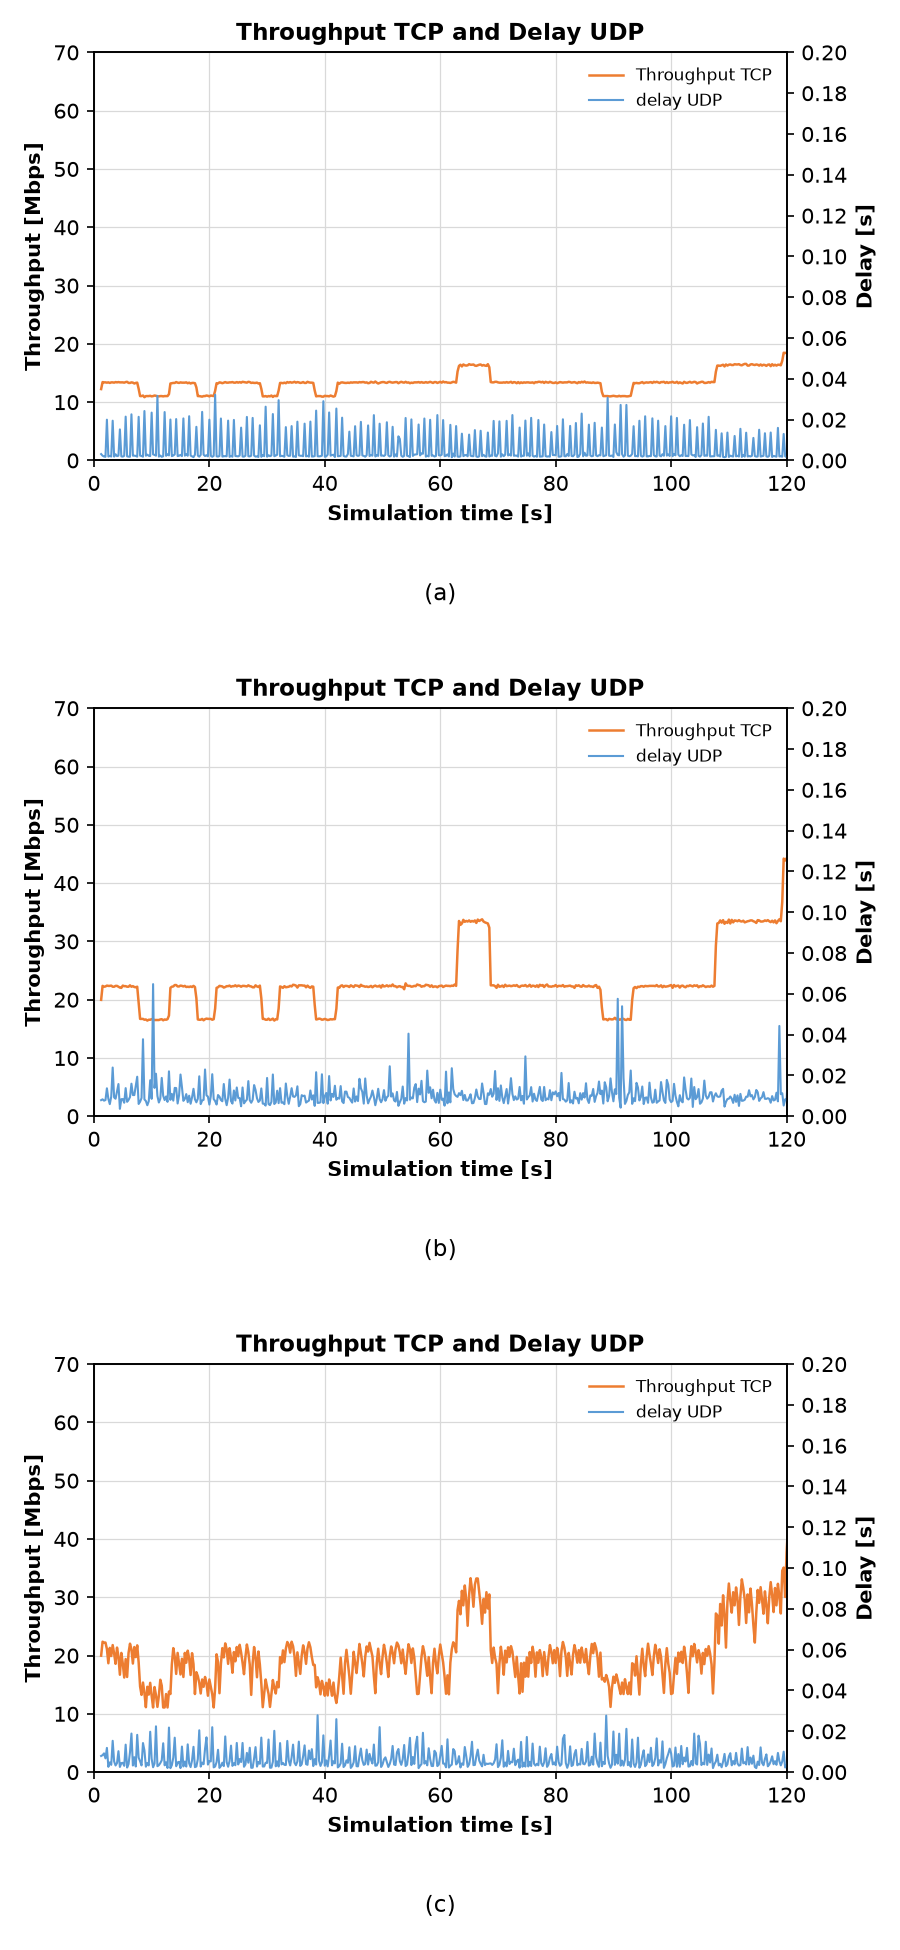
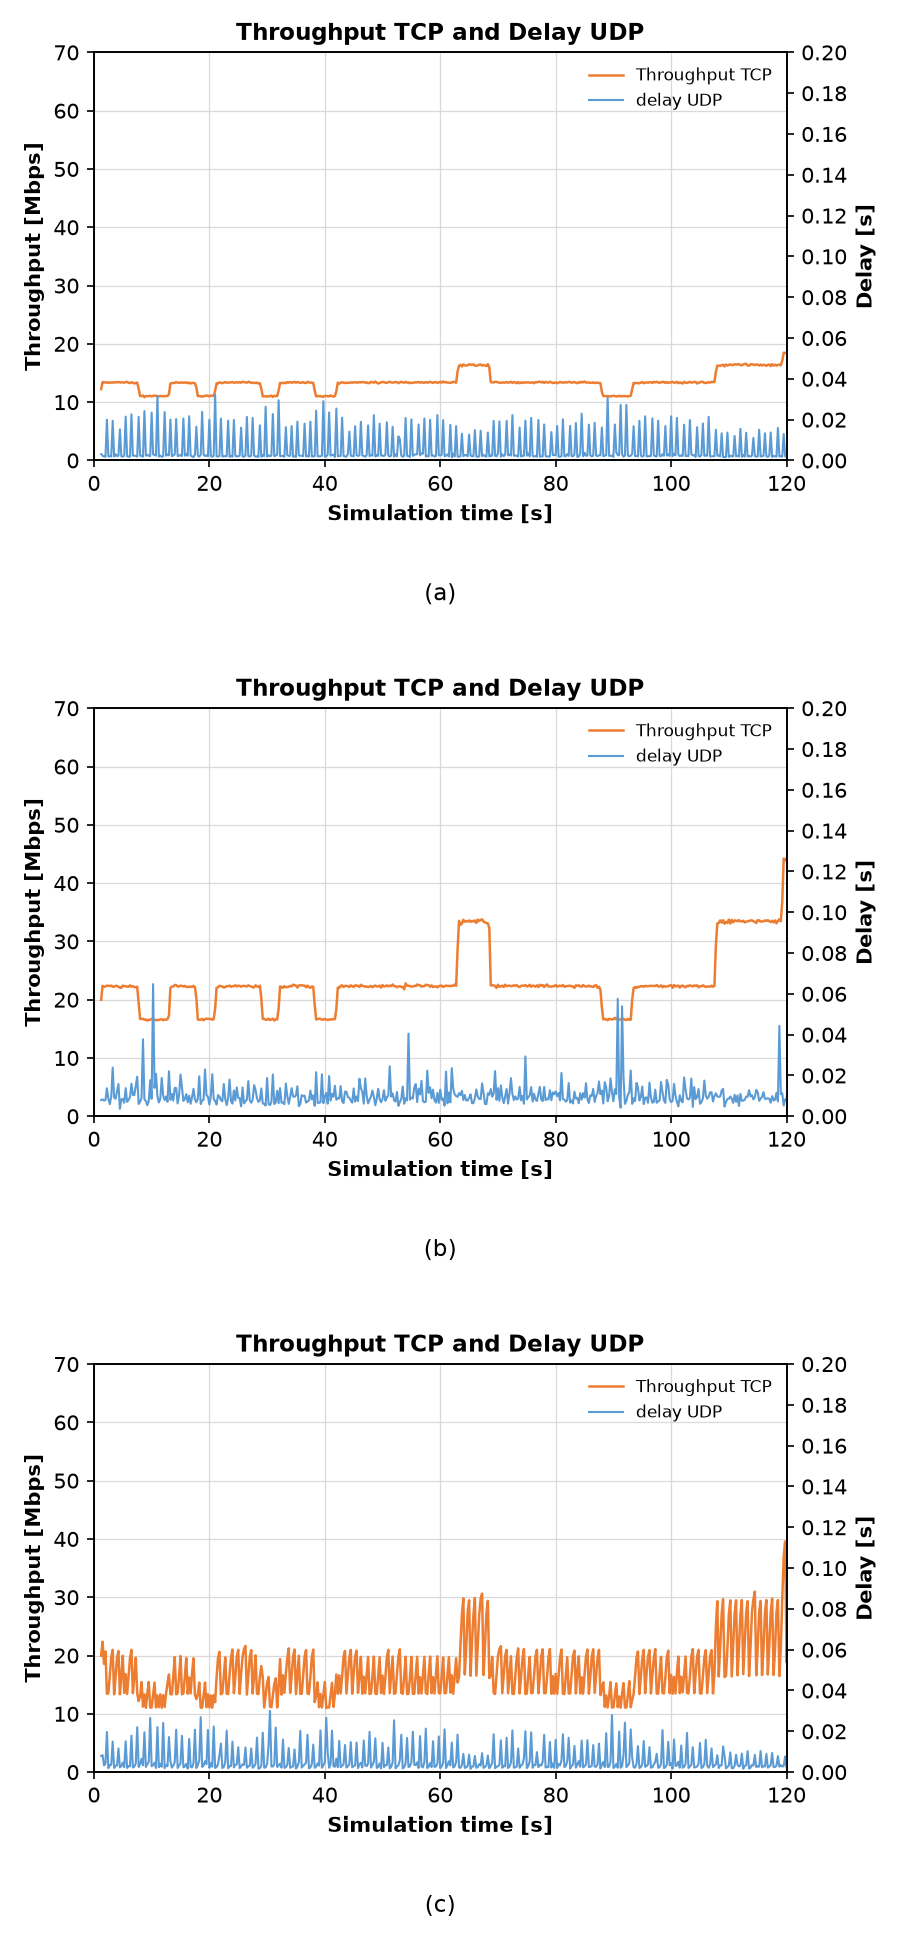
add reproduce report and split fig 2 into 3 part

Changed region(s): [[0.0933, 0.8, 0.8711, 0.9231]]

diff --git a/plot_fig2.py b/plot_fig2.py
@@ -41,7 +41,7 @@ def read_kpis(name):
     return df
 
 
-def plot_panel(ax, df, label):
+def plot_panel(ax, df, label, show_label=True):
     voip = df[df["app"] == "VoIP_upload"]
     tcp = df[df["app"] == "TCP_download"].groupby("t")["thr"].sum() / 1e6
 
@@ -76,8 +76,9 @@ def plot_panel(ax, df, label):
     h2, l2 = ax2.get_legend_handles_labels()
     ax2.legend(h1 + h2, l1 + l2, loc="upper right", fontsize=8, frameon=False)
 
-    # Panel label below the axes: (a), (b), (c)
-    ax.text(0.5, -0.3, label, transform=ax.transAxes, ha="center", va="top", fontsize=11)
+    # Panel label below the axes: (a), (b), (c) -- only in the combined figure
+    if show_label:
+        ax.text(0.5, -0.3, label, transform=ax.transAxes, ha="center", va="top", fontsize=11)
 
     shown_voip = voip[voip["t"] <= X_MAX_S]
     print(f"{label} first {X_MAX_S} s: mean TCP {tcp[tcp.index <= X_MAX_S].mean():.1f} Mbps, "
@@ -115,6 +116,18 @@ def main():
     out = OUT_DIR / "fig2.png"
     fig.savefig(out, dpi=150)
     print(f"saved {out}")
+    plt.close(fig)
+
+    # Also one file per panel: fig2a.png, fig2b.png, fig2c.png
+    for name, label in zip(RUNS, ["(a)", "(b)", "(c)"]):
+        fig, ax = plt.subplots(figsize=(6, 4))
+        plot_panel(ax, read_kpis(name), label, show_label=False)
+        fig.tight_layout()
+        out = OUT_DIR / f"{name}.png"
+        fig.savefig(out, dpi=150)
+        print(f"saved {out}")
+        plt.close(fig)
+
     plot_ampdu()
 
 

diff --git a/reproduce_report.md b/reproduce_report.md
@@ -1,0 +1,254 @@
+# Finding the Sweet Spot for Frame Aggregation：移植到 ns-3.48 與重現實驗報告
+
+## 1. 背景
+
+本報告重現的論文是：
+
+> J. Saldana, O. Topal, J. Ruiz-Mas, J. Fernandez-Navajas, "Finding the Sweet Spot for Frame Aggregation in 802.11 WLANs," *IEEE Communications Letters*, vol. 25, no. 4, pp. 1368–1372, April 2021.
+
+論文探討 802.11 的 A-MPDU 聚合在 **TCP 吞吐量** 與 **VoIP 延遲** 之間的取捨，並提出一個動態演算法：AP 每 0.25 秒量測一次底下 VoIP 使用者的延遲，超過延遲預算（latency budget）就調降 A-MPDU 上限，低於預算就調升。
+
+作者公開的程式（`cc/*.cc`、`sh/*.sh`）是在 **ns-3.30.1 + waf** 上撰寫的。我們的環境是 **ns-3.48 + CMake/`./ns3`**，兩者之間 Wi-Fi 模組的 API 改動很大，因此必須先移植才能執行。
+
+| 項目 | 內容 |
+|---|---|
+| 原始程式 | v199（論文主要版本）、v199b、v199b11–b16（演算法係數不同）、v215 |
+| 移植範圍 | 全部 9 個 `.cc`、21 個 `sh/*.sh` |
+| 執行環境 | ns-3.48、Apple M5（10 核心）、macOS、build profile：optimized（release） |
+| 程式碼位置 | 分支 `ns-3.48-port`，git@github.com:soraimahiro/wifi-sweet-spot-ns3.git |
+
+## 2. 移植到 ns-3.48 的修改
+
+### 2.1 建置方式
+
+- 新增 `CMakeLists.txt`：把 `cc/` 底下每個 `.cc` 各編成一個獨立的執行檔。原本 `cc/` 的檔案完全不會被 ns-3 的 scratch 機制編譯；就算被編譯，9 個 `main()` 也會互相衝突。
+- `sh/*.sh`：`./waf -d optimized --run` 改成 `./ns3 run`，並在開頭 `cd` 到 ns-3 根目錄，讓腳本可以從任何目錄執行。
+
+### 2.2 API 變更（不改就編譯失敗或執行時中止）
+
+| ns-3.30.1 寫法 | ns-3.48 改法 |
+|---|---|
+| `YansWifiPhyHelper::Default()`、`SpectrumWifiPhyHelper::Default()` | 直接用建構式 |
+| `WIFI_PHY_STANDARD_80211n_5GHZ` 等列舉 | `WIFI_STANDARD_80211n` 等；頻段改由頻道設定決定 |
+| PHY 屬性 `ChannelNumber`、`ChannelWidth`（已變成唯讀）、`SetChannelNumber()`（已移除） | 改用 `ChannelSettings` 屬性，例如 `"{36, 20, BAND_5GHZ, 0}"` |
+| PHY 屬性 `ShortGuardEnabled` | 移除（預設就是關閉） |
+| `WifiPhy::EnergyDetectionThreshold` | 改名為 `WifiPhy::RxSensitivity` |
+| `TcpWestwood` + `ProtocolType=WESTWOODPLUS` | `TcpWestwoodPlus` |
+| `InetSocketAddress::SetTos()`（已移除） | 改設定 client 應用程式的 `Tos` 屬性 |
+| `UdpTraceClientHelper(socket位址, port, "")` | `UdpTraceClientHelper(socket位址, "")`；舊寫法在 3.48 會直接 `NS_FATAL_ERROR` |
+| `Ptr == 0`、`isnan()` | `Ptr == nullptr`、`std::isnan()` |
+| 把變長陣列（VLA）傳給 `Simulator::Schedule` | 改傳 `static_cast<FlowStatistics*>(x)` |
+
+### 2.3 靜默失效的問題（能編譯、能跑完，但結果是錯的）
+
+這類問題最危險，因為程式不會報錯。以下三個都是在實際執行、檢查輸出之後才發現的：
+
+1. **`RegularWifiMac` 路徑失效 → A-MPDU 從來沒被修改**
+   原程式用 `Config::Set(".../Mac/$ns3::RegularWifiMac/BE_MaxAmpduSize", ...)` 修改 A-MPDU。`RegularWifiMac` 在 ns-3.36 之後已經不存在，這個路徑比對不到任何物件，`Config::Set` 卻**不會報錯，只是什麼都不做**。
+   修正：拿掉 `$ns3::RegularWifiMac/`，並改用 `Config::SetFailSafe`，找不到物件時直接中止，避免再次靜默失效。
+
+2. **MAC 位址比對失敗 → 演算法以為 AP 底下沒有 VoIP 使用者**
+   AP 的 MAC 是用 `Address` 的格式存成字串（`類型-長度-MAC`），STA 端比對時則是手寫前綴 `"02-06-" << mac`。在 3.30，MAC 位址的類型編號剛好是 02；但 3.48 的類型註冊順序不同，變成 01，所以兩邊永遠比對不到。
+   結果是演算法讀到的 VoIP 最高延遲永遠是 0，A-MPDU 永遠停在 65535。修正後改用 `Address(mac)` 產生字串，和 AP 端的格式一定一致。這個問題也會影響 Disable algorithm 和換手時查詢頻道的邏輯。
+
+3. **未初始化的變數**
+   `uint32_t number_of_STAs_per_row;` 宣告時沒有給初始值，沒有在命令列設定時，它的值就是記憶體殘留的隨機內容。smoke test 時剛好是 0，但跑 `test431.sh` 時變成非 0，參數檢查就拒絕執行。這是原作者程式本來就有的 bug，在 3.30 只是碰巧沒發作。修正為 `= 0`。
+
+### 2.4 驗證
+
+用 `run.sh`（Method #1 的參數，4 個 AP、TCP 和 VoIP 各 2 個使用者、模擬 10 秒）確認演算法確實在運作。有 VoIP 使用者的 AP #3，A-MPDU 會隨延遲調整：
+
+| 時間 (s) | VoIP 最高延遲 | A-MPDU (bytes) |
+|---|---|---|
+| 1.25 | 12 ms（超過 4 ms 預算） | 65535 → 35535 |
+| 1.50 | 10 ms | → 5535 |
+| 1.75 | 4 ms | → 8535（調升） |
+| 2.00 之後 | 在預算上下來回 | 在 1600 到 7600 之間來回 |
+
+修正前後的同一場景比較：
+
+| | VoIP 平均延遲 | TCP 下載總吞吐量 |
+|---|---|---|
+| 修正前（A-MPDU 實際上一直開到最大） | 12.7 ms | 49.8 Mbps |
+| 修正後（動態演算法有在運作） | 5.7 ms | 37.2 Mbps |
+
+方向和論文一致：犧牲一部分 TCP 吞吐量，換到 VoIP 延遲降低約一半，並貼近 4 ms 的預算。
+
+## 3. 實驗 A：Fig. 2（單一使用者的時間序列）
+
+### 3.1 設定
+
+依照 README，Fig. 2 由 `test451`、`test452`、`test453` 產生，取 seed 2。我們寫了 `fig2.sh`，用完全相同的參數只跑 seed 2，再由 `plot_fig2.py` 依照論文的樣式畫圖。
+
+| 共同設定 | |
+|---|---|
+| 拓樸 | 1 個 AP |
+| 使用者 | 1 個 TCP 下載使用者、1 個 VoIP 上傳使用者（隨機走動，速度 1 m/s） |
+| 標準 | 802.11ac、5 GHz、20 MHz、單串流、SpectrumWifiPhy、IdealWifiManager |
+| 模擬時間 | 180 秒（圖上顯示前 120 秒，和論文相同） |
+| 亂數 | `RngRun=2` |
+
+| 子圖 | 聚合設定 |
+|---|---|
+| (a) | 不聚合 |
+| (b) | 一直聚合，A-MPDU 上限 65535 bytes |
+| (c) | 動態演算法 Method #1（線性調降、線性調升，`methodAdjustAmpdu=0`，步長 3000 B），延遲預算 4 ms |
+
+三次 run 總共只需要約一兩分鐘。
+
+> **注意：(c) 的參數和作者公開的腳本不同。** 論文正文寫明 Fig. 2(c) 使用的是 **Method #1**（程式參數 `methodAdjustAmpdu=0`）。但 README 標示產生 Fig. 2(c) 的 `test453` 腳本設定的是 `methodAdjustAmpdu=3`，在程式裡對應的是幾何調整（×2 / ×0.618），也就是論文的 Method #2（test521–526 用的就是這個值）。作者公開的腳本和論文的圖可能不是同一個版本。我們以論文正文為準，(c) 使用 Method #1；照 test453 參數（Method #2）跑出的結果也一併列在 3.3 節供參考。
+
+### 3.2 結果
+
+![Fig. 2(a) 不聚合](fig2a.png)
+
+![Fig. 2(b) 一直聚合](fig2b.png)
+
+![Fig. 2(c) 動態演算法（Method #1）](fig2c.png)
+
+前 120 秒（和論文的顯示範圍相同）：
+
+| | TCP 平均吞吐量 | UDP 平均延遲 | UDP 最大延遲 |
+|---|---|---|---|
+| (a) 不聚合 | 13.4 Mbps | 6.1 ms | 32 ms |
+| (b) 一直聚合 | 23.1 Mbps | 10.7 ms | 65 ms |
+| (c) 動態演算法（Method #1） | 17.2 Mbps | 6.2 ms | 30 ms |
+
+全部 180 秒時，(b) 在 146 秒還有一次高達 1.02 s 的延遲。
+
+動態演算法下 AP 的 A-MPDU 大小變化（論文沒有這張圖）：
+
+![(c) 的 A-MPDU 大小](fig2c_ampdu.png)
+
+### 3.3 和論文的比較
+
+| | 論文 TCP 吞吐量 | 我們 TCP 吞吐量 | 論文 UDP 平均延遲 | 我們 UDP 平均延遲 |
+|---|---|---|---|---|
+| (a) 不聚合 | 16.6 Mbps | 13.4 Mbps | 4.7 ms | 6.1 ms |
+| (b) 一直聚合 | 34.5 Mbps | 23.1 Mbps | 10 ms | 10.7 ms |
+| (c) 動態演算法（Method #1） | 31.3 Mbps | 17.2 Mbps | 6.2 ms | 6.2 ms |
+
+論文的數字取自正文對 Fig. 2 的說明；我們的數字是前 120 秒的平均。
+
+### 3.4 結論
+
+- **重現了論文的主要結論**
+  - 一直聚合（b）的 TCP 吞吐量最高，但 UDP 延遲也被墊高到約 10 ms（論文 10 ms，我們 10.7 ms），並出現明顯的尖峰。
+  - 動態演算法（c）能把延遲壓回接近不聚合的水準（兩者都是 6.2 ms），吞吐量則介於 (a) 和 (b) 之間。
+- **差異一：TCP 吞吐量的絕對值偏低**，(b) 只有論文的 67%。
+  - 吞吐量幾乎完全取決於 TCP 使用者與 AP 的距離（從位置輸出檔算出的相關係數是 −0.90）。
+  - 論文的使用者在 t = 8 s 時非常靠近 AP，吞吐量達 60–65 Mbps；我們的使用者前 100 秒大多在 30 m 外，只有約 20 Mbps。
+  - 同樣使用 seed 2 卻走出不同路線，是因為 ns-3.30 到 3.48 之間各模組使用亂數的順序改變了，跨版本本來就無法逐點重現同一條軌跡。
+- **差異二：我們的 Method #1 比論文保守**
+  - 論文的 (c) 只比 (b) 少 9% 吞吐量；我們少了 26%，但延遲幾乎沒有比不聚合增加。
+  - 可能的原因：我們不聚合時就有週期性的延遲尖峰，平均 6.1 ms，已高於 4 ms 的預算。演算法遇到尖峰就調降 A-MPDU，使它有 35% 的時間停在下限 1600 bytes，整體表現因此更接近不聚合。
+- **作者的腳本和論文不一致**
+  - 作者公開的 test453 腳本使用的是 Method #2（`methodAdjustAmpdu=3`），論文正文寫的是 Method #1。
+  - 我們以論文正文為準；照 test453 參數跑出的 Method #2 結果（19.8 Mbps、6.7 ms）介於兩者之間。
+- **總結**：三種設定之間的相對關係和論文一致，數值上的差異主要來自移動路線與基準延遲的不同，而不是移植本身的問題。
+
+## 4. 實驗 B：Fig. 4–7（不同使用者數的比較）
+
+### 4.1 設定
+
+Fig. 4–7 比較 7 種聚合設定在不同使用者數下的表現，四張圖共用同一批模擬，只是畫不同的指標（VoIP 延遲、吞吐量等）。
+
+| 共同設定 | |
+|---|---|
+| 拓樸 | 16 個 AP 排成 4×4 方格，間距 50 m，使用 16 個頻道 |
+| 使用者 | N 個 TCP 下載使用者 + N 個 VoIP 上傳使用者，隨機走動、會換手 |
+| N | 2、4、…、20（10 種） |
+| 重複次數 | 每個 N 跑 5 個 seed 取平均 |
+| 模擬時間 | 60 秒 |
+
+| 腳本 | 設定 | run 數 |
+|---|---|---|
+| test411 | (1) 不聚合 | 50 |
+| test412 | (2) 一直聚合 | 50 |
+| test414 | (3) Disable algorithm | 50 |
+| test431 | (4) Method #1：線性調降、線性調升 | 50 |
+| test521 | (5) Method #2：幾何調降、幾何調升（v199b11） | 5 種 N × 15 個 seed = 75 |
+| test432 | (6) Method #3：降到最小、線性調升 | 50 |
+| test434 | (7) Method #4：線性調降、直接升到最大（v215） | 50 |
+| **合計** | | **375** |
+
+圖上的每一條線是一種設定，每一個點是一個 N，所以每個點背後都是 5 次（test521 為 15 次）獨立的模擬，沒辦法用一次模擬產生全部的圖。
+
+### 4.2 實測耗時
+
+我們先跑了 test431，跑到 N=14 時中止。從 log 的時間戳記推算每次 run 的實際耗時（optimized build）：
+
+| N | 每次 run 平均 |
+|---|---|
+| 2 | 8 s |
+| 4 | 21 s |
+| 6 | 34 s |
+| 8 | 50 s |
+| 10 | 69 s |
+| 12 | 53 s |
+
+大致上每增加 1 個使用者，每次 run 就多約 **6.5 秒**。N=12 偏低應該是隨機性造成的；N=14 只跑了一次就中止，不列入。
+
+### 4.3 時間估算
+
+| 範圍 | 計算方式 | 估計時間 |
+|---|---|---|
+| 一個標準腳本（N=2…20，5 個 seed） | 5 × 6.5 s × (2+4+…+20=110) | 約 60 分鐘，保守估 1–1.5 小時 |
+| test521（N=4…20 每次加 4，15 個 seed） | 15 × 6.5 s × 60 | 約 1.6 小時 |
+| **Fig. 4–7 全部依序執行** | 6 × 約 1 h + 1.6 h | **約 8 小時** |
+| Fig. 8、9 另外需要的腳本（test481–484、test522–526） | | 再加約 12 小時，全部合計約 20 小時 |
+
+這是從 31 次 run 外推的結果。N 較大時可能比線性更慢；不聚合（test411）之類的設定封包數不同，耗時也可能不一樣。
+
+### 4.4 為什麼這麼久
+
+模擬器會**逐一模擬每一個封包**，耗時取決於事件數量，而不是模擬時間的長短：
+
+1. **TCP 滿載**：每個 TCP 使用者都持續滿載下載。總吞吐量 100–200 Mbps 時，60 秒內就有上百萬個資料封包，加上 TCP ACK、Block Ack、VoIP 封包，以及 16 個 AP 每 100 ms 送出的 beacon。
+2. **SpectrumWifiPhy**：原作者使用的是較精細的頻譜 PHY 模型。每一個訊框送出時，都要對所有節點計算訊號功率和干擾，節點越多，每個封包的計算量就越大。
+3. **使用者越多，以上兩項同時增加**，所以耗時大約和 N 成正比。
+4. **模擬是單執行緒的**：一次 run 只會用到一個 CPU 核心，依序執行時其他核心都閒著。
+
+對照之下，實驗 A 雖然模擬 180 秒，但只有 1 個 AP、2 個使用者，事件量小很多，所以一兩分鐘就跑完了。
+
+### 4.5 初步結果（test431，N = 2–10）
+
+test431 中止前已完成 22 次 run，各 N 的平均如下（N=10 只有 2 個 seed）：
+
+| N | VoIP 平均延遲 | TCP 下載總吞吐量 |
+|---|---|---|
+| 2 | 1.4 ms | 47.8 Mbps |
+| 4 | 2.2 ms | 116.5 Mbps |
+| 6 | 2.9 ms | 134.7 Mbps |
+| 8 | 3.0 ms | 187.8 Mbps |
+| 10 | 4.6 ms | 158.3 Mbps |
+
+VoIP 延遲大多維持在 4 ms 預算附近或以下；TCP 總吞吐量隨 N 增加，因為使用者分散在 16 個 AP 和 16 個頻道上。同一個 N 不同 seed 之間的差異很大（例如 N=8 時從 121 到 239 Mbps），這是隨機走動造成的，也是需要多個 seed 取平均的原因。由於只跑了一種設定，目前還無法和其他設定比較。
+
+### 4.6 縮短時間的做法
+
+1. **平行執行**：這台電腦是 Apple M5、10 核心（4 個效能核心）。同時跑多個腳本可以大幅縮短總時間；但同時跑超過 4 個時，會有部分 run 落到較慢的節能核心，預估 7 個腳本平行執行約需 **2–3 小時**。平行執行前要先 build 好，並改用 `./ns3 run --no-build`，避免多個程序同時檢查編譯而互相干擾。
+2. **縮小規模**：只看趨勢的話，seed 改成 2 個、N 改成 4、8、12、16、20，每個腳本約 12 分鐘，7 個依序執行約 1.5 小時。
+3. **先跑最關鍵的三條線**：test411（不聚合）、test412（一直聚合）、test431（Method #1），就足以呈現論文的主要結論。搭配縮小規模和平行執行，約 15 分鐘可以得到 Fig. 4–7 的雛形。
+
+## 5. 限制與注意事項
+
+- **數值不會和論文完全相同**：ns-3.30 到 3.48 之間的 PHY/MAC 模型（干擾、CCA、Block Ack、速率控制）都有修正，加上亂數序列不同，只能比對趨勢和設定之間的相對關係。
+- **A-MPDU 上限**：原程式把 802.11ac 的 A-MPDU 上限寫死為 65535 bytes（作者在程式中留有 FIXME），實際上使用的是 802.11n 等級的上限。我們保留原設定，以便和論文比較。
+- **輸出檔是追加寫入**：`<name>_average.txt` 每次 run 會在最後追加一列，重新執行同名實驗前要先刪除舊檔。
+- **論文的圖沒有附畫圖程式**：作者的 repo 只有模擬程式，沒有畫圖程式，Fig. 2 的圖是我們依照論文樣式自行繪製的。
+
+## 6. 相關檔案
+
+| 檔案 | 說明 |
+|---|---|
+| `cc/*.cc` | 移植後的模擬程式 |
+| `CMakeLists.txt` | 把每個 `.cc` 編成獨立執行檔 |
+| `sh/*.sh` | 原作者的實驗腳本（已改用 `./ns3 run`） |
+| `run.sh` | 移植驗證用的 smoke test |
+| `fig2.sh` | 實驗 A：跑 Fig. 2 的三種設定並畫圖 |
+| `plot_fig2.py` | 實驗 A 的畫圖程式 |
+| `fig2a.png`、`fig2b.png`、`fig2c.png` | 實驗 A 的結果圖（各子圖分開） |
+| `fig2.png` | 實驗 A 的結果圖（三張子圖合併，和論文的排版相同） |
+| `fig2c_ampdu.png` | 實驗 A (c) 的 A-MPDU 大小 |
+| `README.md` | 移植的修改對照表 |
